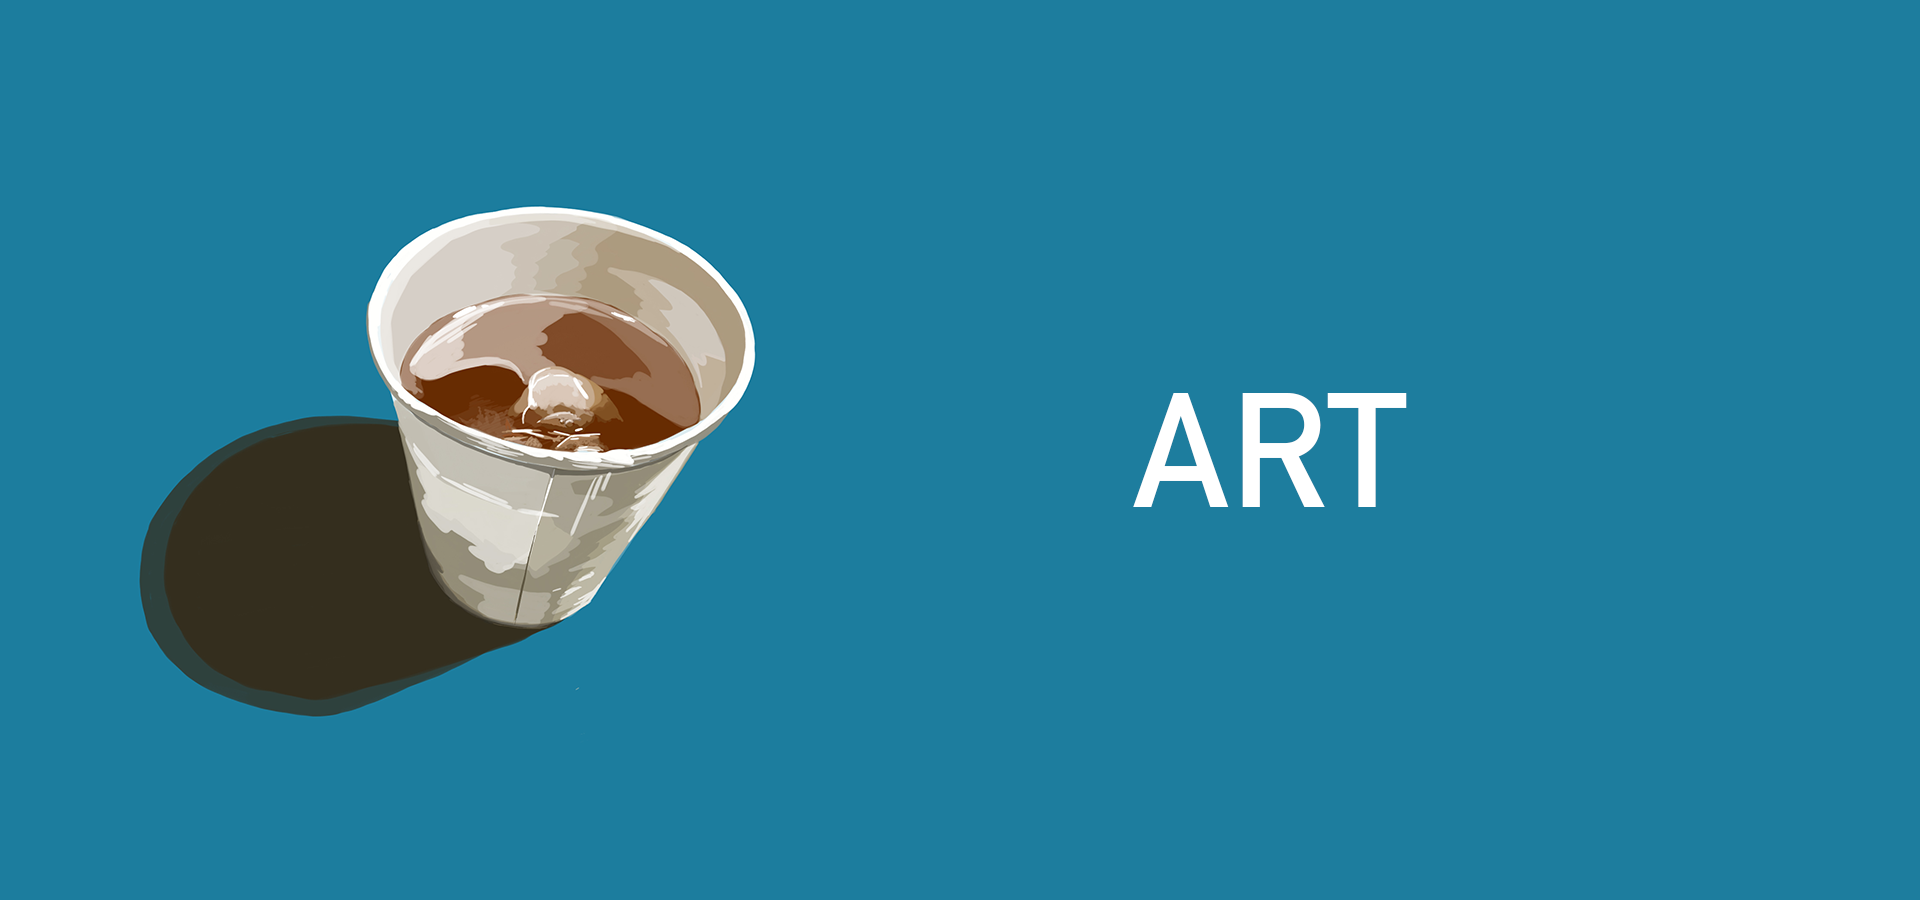
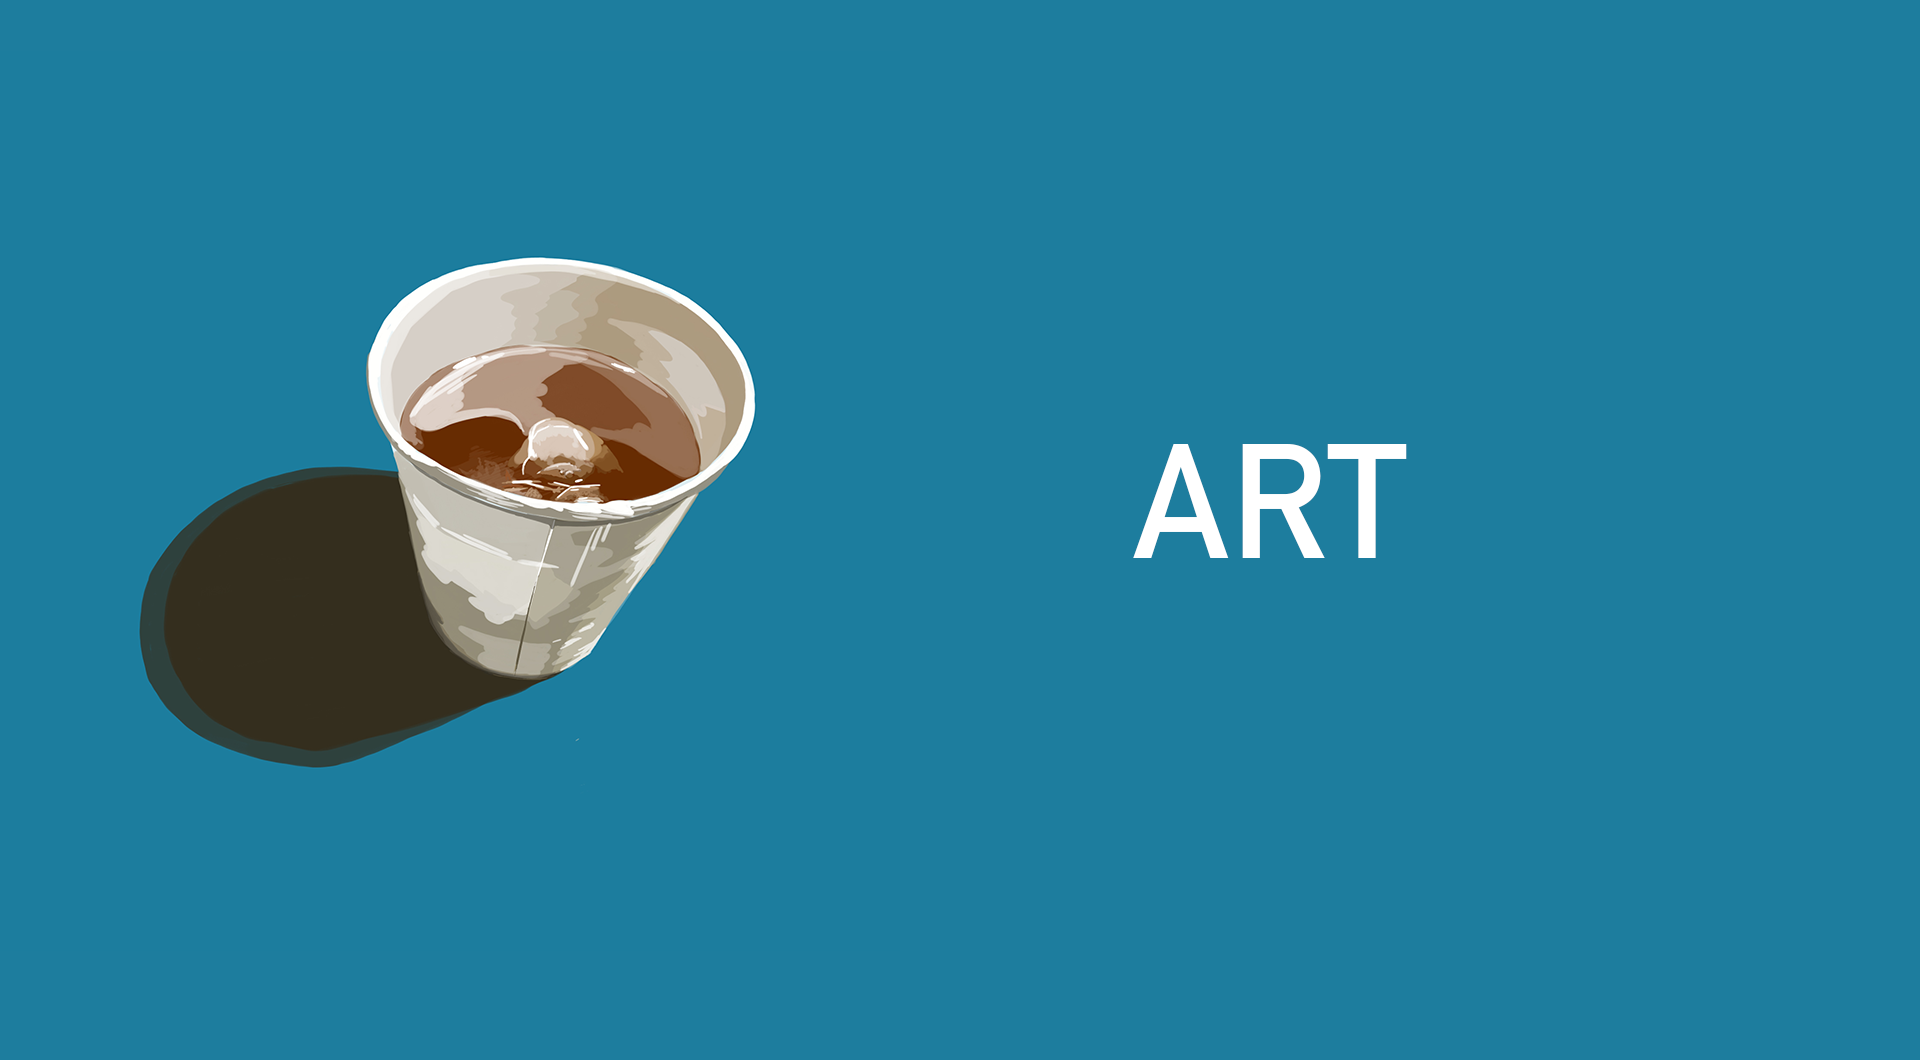
各ページのサムネの高さを変更

diff --git a/static/scss/style.scss b/static/scss/style.scss
@@ -460,7 +460,7 @@ $pc-article-img-height: 260px;
 
 .thumbnail{
     min-height: 80%;
-    height: 84%;
+    height: 90%;
     background-repeat: no-repeat;
     background-size:100% auto;
     background-attachment: fixed;

diff --git a/static/css/style.css b/static/css/style.css
@@ -349,7 +349,7 @@ hr {
 
 .thumbnail {
   min-height: 80%;
-  height: 84%;
+  height: 90%;
   background-repeat: no-repeat;
   background-size: 100% auto;
   background-attachment: fixed; }
